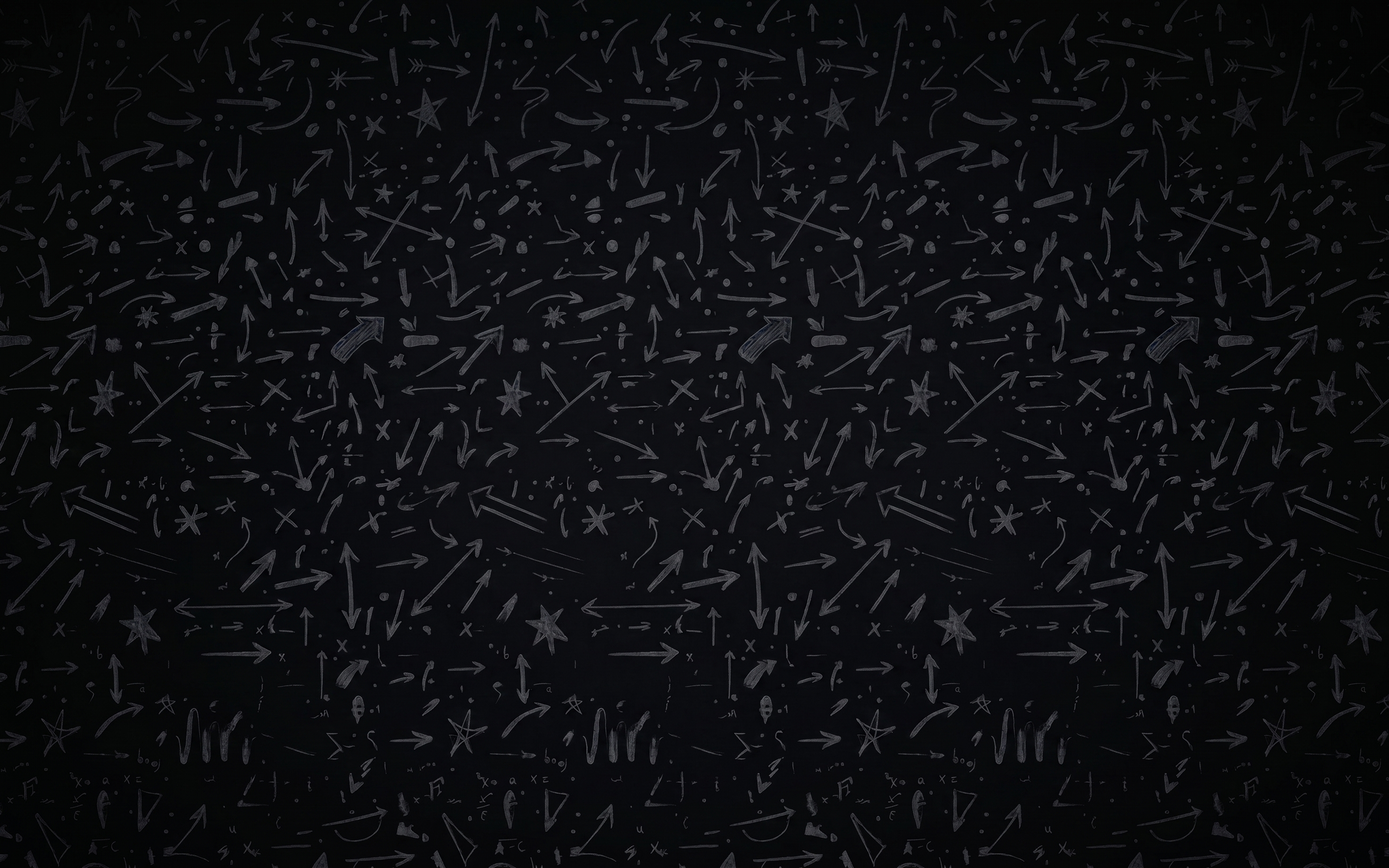
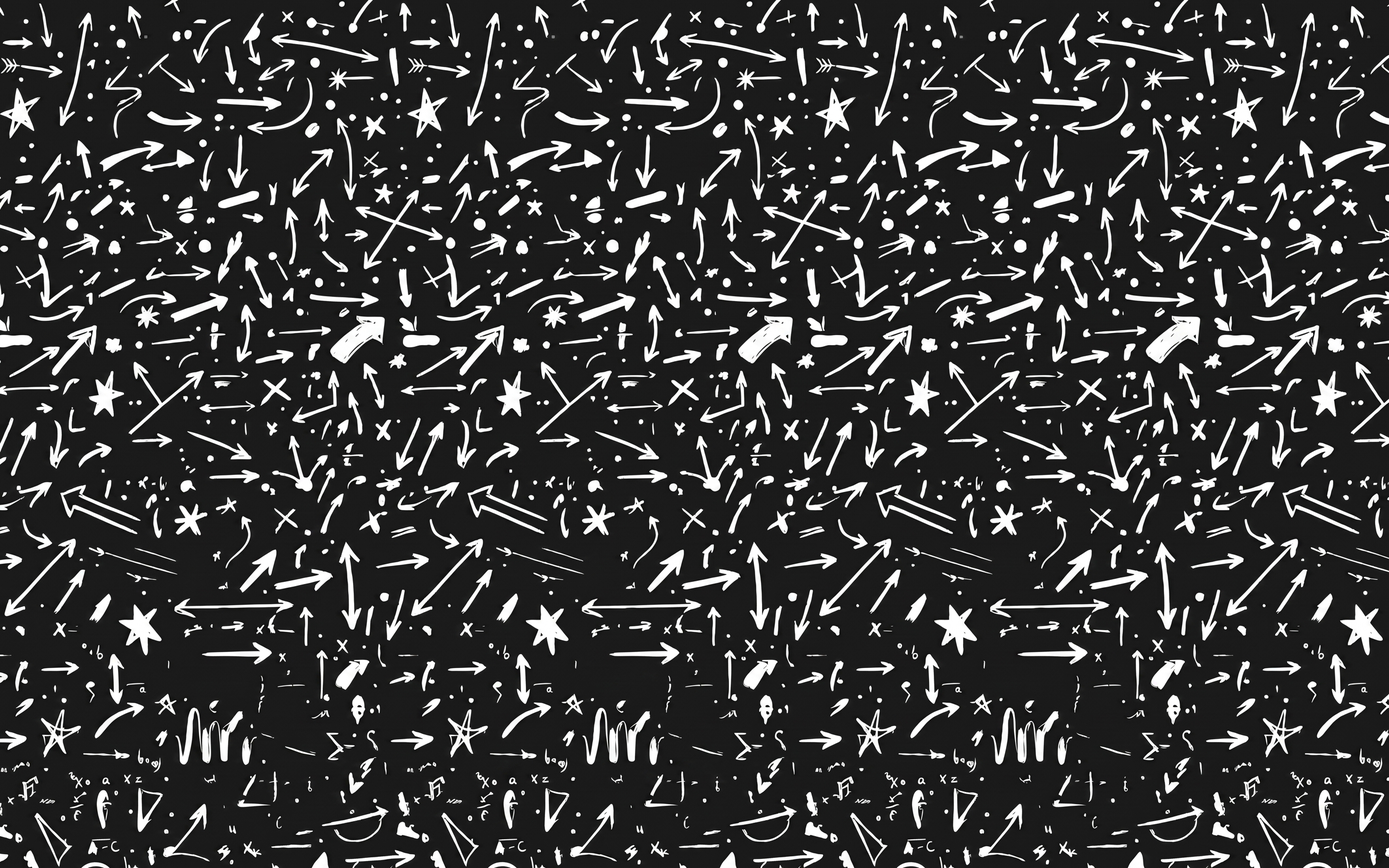
user section and fixed wallpapaers

diff --git a/frontend/src/components/ProfileDialog.tsx b/frontend/src/components/ProfileDialog.tsx
@@ -20,6 +20,7 @@ import {
 } from "@mui/material";
 import { API_BASE, apiFetch } from "../api";
 import { useAuth } from "../AuthContext";
+
 type Profile = {
   display_name: string;
   tag: string;
@@ -37,7 +38,7 @@ export default function ProfileDialog({
   onClose: () => void;
 }) {
   const { user, logout, refreshProfile } = useAuth();
-  const { mode, setMode, wallpaper, setWallpaper } = useAppTheme();
+  const { mode, setMode, wallpaper, setWallpaper, randomizeWallpaper } = useAppTheme();
   const [profile, setP] = useState<Profile>(EMPTY);
   const [file, setFile] = useState<File | null>(null);
   const [preview, setPreview] = useState<string | null>(null);
@@ -193,50 +194,60 @@ export default function ProfileDialog({
             </Button>
 
             <Divider />
-<Typography variant="subtitle2">Appearance</Typography>
+            <Typography variant="subtitle2">Appearance</Typography>
 
-<FormControlLabel
-  control={
-    <Switch
-      checked={mode === "dark"}
-      onChange={(e) => setMode(e.target.checked ? "dark" : "light")}
-    />
-  }
-  label="Dark mode"
-/>
+            <FormControlLabel
+              control={
+                <Switch
+                  checked={mode === "dark"}
+                  onChange={(e) => setMode(e.target.checked ? "dark" : "light")}
+                />
+              }
+              label="Dark mode"
+            />
 
-<Box>
-  <Typography variant="body2" color="text.secondary" sx={{ mb: 1 }}>
-    Chat wallpaper
-  </Typography>
-  <Stack direction="row" spacing={1}>
-    {(Object.keys(WALLPAPERS) as WallpaperKey[]).map((key) => {
-      const src = WALLPAPERS[key][mode];
-      return (
-        <Box
-          key={key}
-          onClick={() => setWallpaper(key)}
-          title={WALLPAPERS[key].label}
-          sx={{
-            width: 56,
-            height: 56,
-            borderRadius: 1,
-            cursor: "pointer",
-            bgcolor: "background.default",
-            border: wallpaper === key ? "2px solid" : "1px solid",
-            borderColor: wallpaper === key ? "primary.main" : "divider",
-            backgroundImage: src ? `url(${src})` : "none",
-            backgroundSize: "90px",
-          }}
-        />
-      );
-    })}
-  </Stack>
-</Box>
+            <Box>
+              <Typography variant="body2" color="text.secondary" sx={{ mb: 1 }}>
+                Chat wallpaper
+              </Typography>
+              <Stack direction="row" spacing={1}>
+                {(Object.keys(WALLPAPERS) as WallpaperKey[]).map((key) => {
+                  const src = WALLPAPERS[key][mode];
+                  return (
+                    <Box
+                      key={key}
+                      onClick={() => setWallpaper(key)}
+                      title={WALLPAPERS[key].label}
+                      sx={{
+                        width: 56,
+                        height: 56,
+                        borderRadius: 1,
+                        cursor: "pointer",
+                        bgcolor: "background.default",
+                        border: wallpaper === key ? "2px solid" : "1px solid",
+                        borderColor: wallpaper === key ? "primary.main" : "divider",
+                        backgroundImage: src ? `url(${src})` : "none",
+                        backgroundSize: "90px",
+                      }}
+                    />
+                  );
+                })}
+              </Stack>
 
-<Divider />
+              <Button
+                size="small"
+                variant="outlined"
+                onClick={randomizeWallpaper}
+                disabled={wallpaper === "none"}
+                sx={{ mt: 1.5 }}
+              >
+                Randomize
+              </Button>
+            </Box>
+
+            <Divider />
             <Button color="error" onClick={logout}>
-              Log out
+              Log out 🚪
             </Button>
           </Box>
         )}
@@ -244,4 +255,3 @@ export default function ProfileDialog({
     </Dialog>
   );
 }
-

diff --git a/frontend/src/components/OtherUserProfile.tsx b/frontend/src/components/OtherUserProfile.tsx
@@ -1,0 +1,124 @@
+import { useEffect, useState } from "react";
+import {
+  Alert,
+  Avatar,
+  Box,
+  Button,
+  CircularProgress,
+  Dialog,
+  DialogContent,
+  Divider,
+  Stack,
+  Typography,
+} from "@mui/material";
+import { API_BASE, apiFetch } from "../api";
+
+type OtherProfile = {
+  display_name: string;
+  tag: string;
+  bio: string;
+  avatar: string | null;
+};
+
+export default function OtherUserProfile({
+  userId,
+  onClose,
+  onMessage,
+}: {
+  userId: number | null;
+  onClose: () => void;
+  onMessage: (u: { user_id: number; tag: string; avatar: string | null }) => void;
+}) {
+  const [profile, setProfile] = useState<OtherProfile | null>(null);
+  const [loading, setLoading] = useState(false);
+  const [err, setErr] = useState<string | null>(null);
+
+  useEffect(() => {
+    if (!userId) return;
+    setProfile(null);
+    setErr(null);
+    setLoading(true);
+    apiFetch(`/api/users/${userId}/`)
+      .then((r) => {
+        if (!r.ok) throw new Error(`Could not load profile (${r.status})`);
+        return r.json();
+      })
+      .then((d) =>
+        setProfile({
+          display_name: d.display_name ?? "",
+          tag: d.tag ?? "",
+          bio: d.bio ?? "",
+          avatar: d.avatar ? (d.avatar.startsWith("http") ? d.avatar : API_BASE + d.avatar) : null,
+        })
+      )
+      .catch((e) => setErr(e.message))
+      .finally(() => setLoading(false));
+  }, [userId]);
+
+  return (
+    <Dialog
+      open={userId !== null}
+      onClose={onClose}
+      fullWidth
+      maxWidth="xs"
+      slotProps={{ paper: { sx: { borderRadius: 3, p: 1 } } }}
+    >
+      <DialogContent>
+        {loading && (
+          <Box sx={{ display: "flex", justifyContent: "center", py: 6 }}>
+            <CircularProgress />
+          </Box>
+        )}
+
+        {err && <Alert severity="error">{err}</Alert>}
+
+        {profile && (
+          <Box sx={{ display: "flex", flexDirection: "column", gap: 2 }}>
+            <Box sx={{ display: "flex", flexDirection: "column", alignItems: "center", gap: 1 }}>
+              <Avatar src={profile.avatar ?? undefined} sx={{ width: 88, height: 88, fontSize: 32 }}>
+                {(profile.display_name || profile.tag || "?")[0]?.toUpperCase()}
+              </Avatar>
+              <Typography variant="h6" sx={{ fontWeight: 600 }}>
+                {profile.display_name || profile.tag}
+              </Typography>
+              <Typography variant="body2" color="text.secondary">
+                @{profile.tag}
+              </Typography>
+            </Box>
+
+            {profile.bio && (
+              <>
+                <Divider />
+                <Box>
+                  <Typography variant="body2" color="text.secondary" sx={{ mb: 0.5 }}>
+                    Bio
+                  </Typography>
+                  <Typography variant="body2" sx={{ whiteSpace: "pre-wrap" }}>
+                    {profile.bio}
+                  </Typography>
+                </Box>
+              </>
+            )}
+
+            <Divider />
+
+            <Stack direction="row" spacing={1}>
+              <Button
+                variant="contained"
+                fullWidth
+                onClick={() =>
+                  onMessage({ user_id: userId!, tag: profile.tag, avatar: profile.avatar })
+                }
+              >
+                Message
+              </Button>
+              <Button variant="outlined" color="error" fullWidth disabled>
+                Block
+              </Button>
+            </Stack>
+          </Box>
+        )}
+      </DialogContent>
+    </Dialog>
+  );
+}

diff --git a/frontend/src/App.tsx b/frontend/src/App.tsx
@@ -14,10 +14,11 @@ import { useAuth } from './AuthContext';
 import LoginPage from './LoginPage';
 import { useAppTheme } from './Themes';
 import { WALLPAPERS } from './wallpapers';
+import OtherUserProfile from './components/OtherUserProfile';
 
 function ChatApp() {
   const { user, profile } = useAuth();
-  const { wallpaper, mode } = useAppTheme();
+  const { wallpaper, mode, wallpaperPos } = useAppTheme();
   const wp = WALLPAPERS[wallpaper][mode];
   const meId = user!.id;
   const [otherId, setOtherId] = React.useState<number | null>(
@@ -26,6 +27,7 @@ function ChatApp() {
   
   const [otherUser, setOtherUser] = React.useState<{ tag: string; avatar: string | null } | null>(null);
   const [profileOpen, setProfileOpen] = React.useState(false);
+  const [viewUserId, setViewUserId] = React.useState<number | null>(null);
   const [messages, setMessages] = React.useState<ChatMessage[]>([]);
   const [conversationId, setConversationId] = React.useState<number | null>(null);
   const { recentChats, addOrBump, remove, unreadCounts, markRead } = useRecentChats(meId, otherId);
@@ -141,8 +143,8 @@ function ChatApp() {
           </span>
         </div>
 
-        <SearchBar meId={meId} onSelect={(u) => openChat({ user_id: u.user_id, tag: u.tag, avatar: u.avatar })} />
-        <RecentChatsList chats={recentChats} activeId={otherId ?? -1} onSelect={openChat} onDelete={handleDelete} unreadCounts={unreadCounts} />
+        <SearchBar meId={meId} onSelect={(u) => setViewUserId(u.user_id)} />
+        <RecentChatsList chats={recentChats} activeId={otherId ?? -1} onSelect={openChat} onDelete={handleDelete} onAvatarClick={(c) => setViewUserId(c.user_id)} unreadCounts={unreadCounts} />
       </div>
 
       <div style={{ flex: 1, display: 'flex', alignItems: 'stretch', padding: 24 }}>
@@ -160,9 +162,11 @@ function ChatApp() {
               inset: 0,
               backgroundImage: `url(${wp})`,
               backgroundRepeat: 'repeat',
-              backgroundSize: '500px',
-              opacity: mode === 'dark' ? 0.5 : 0.2,
+              backgroundSize: '2500px',
+              backgroundPosition: wallpaperPos,
+              opacity: mode === 'dark' ? 0.1 : 0.2,
               pointerEvents: 'none',
+              transition: 'background-position 0.35s ease',
             }} />
           )}
 
@@ -199,6 +203,14 @@ function ChatApp() {
         </div>
       </div>
       <ProfileDialog open={profileOpen} onClose={() => setProfileOpen(false)} />
+      <OtherUserProfile
+        userId={viewUserId}
+        onClose={() => setViewUserId(null)}
+        onMessage={(u) => {
+          openChat(u);
+          setViewUserId(null);
+        }}
+      />
     </div>
   );
 }

diff --git a/frontend/src/Themes.tsx b/frontend/src/Themes.tsx
@@ -10,6 +10,8 @@ const Ctx = createContext<{
   setMode: (m: Mode) => void;
   wallpaper: WallpaperKey;
   setWallpaper: (w: WallpaperKey) => void;
+  wallpaperPos: string;
+  randomizeWallpaper: () => void;
 }>(null!);
 
 export const useAppTheme = () => useContext(Ctx);
@@ -21,9 +23,18 @@ export function AppThemeProvider({ children }: { children: ReactNode }) {
   const [wallpaper, setWallpaperState] = useState<WallpaperKey>(
     () => (localStorage.getItem('wallpaper') as WallpaperKey) || 'none'
   );
+  const [wallpaperPos, setWallpaperPos] = useState<string>(
+    () => localStorage.getItem('wallpaperPos') || '0px 0px'
+  );
 
   const setMode = (m: Mode) => { localStorage.setItem('mode', m); setModeState(m); };
   const setWallpaper = (w: WallpaperKey) => { localStorage.setItem('wallpaper', w); setWallpaperState(w); };
+
+  const randomizeWallpaper = () => {
+    const p = `${Math.floor(Math.random() * 600)}px ${Math.floor(Math.random() * 600)}px`;
+    localStorage.setItem('wallpaperPos', p);
+    setWallpaperPos(p);
+  };
 
   const theme = useMemo(() => createTheme({
     palette: {
@@ -51,7 +62,7 @@ export function AppThemeProvider({ children }: { children: ReactNode }) {
   }), [mode]);
 
   return (
-    <Ctx.Provider value={{ mode, setMode, wallpaper, setWallpaper }}>
+    <Ctx.Provider value={{ mode, setMode, wallpaper, setWallpaper, wallpaperPos, randomizeWallpaper }}>
       <ThemeProvider theme={theme}>{children}</ThemeProvider>
     </Ctx.Provider>
   );

diff --git a/frontend/src/components/RecentChatsList.tsx b/frontend/src/components/RecentChatsList.tsx
@@ -5,10 +5,11 @@ type Props = {
   activeId: number;
   onSelect: (c: RecentContact) => void;
   onDelete: (c: RecentContact) => void;
+  onAvatarClick: (c: RecentContact) => void;
   unreadCounts: Record<number, number>;
 };
 
-export function RecentChatsList({ chats, activeId, onSelect, onDelete, unreadCounts }: Props) {
+export function RecentChatsList({ chats, activeId, onSelect, onDelete, onAvatarClick, unreadCounts }: Props) {
   if (chats.length === 0) {
     return (
       <div style={{ color: '#8a7854', fontSize: 13, padding: '8px 4px' }}>
@@ -40,6 +41,11 @@ export function RecentChatsList({ chats, activeId, onSelect, onDelete, unreadCou
           }}
         >
           <div
+            onClick={(e) => {
+              e.stopPropagation();
+              onAvatarClick(c);
+            }}
+            title="View profile"
             style={{
               width: 32,
               height: 32,
@@ -53,6 +59,7 @@ export function RecentChatsList({ chats, activeId, onSelect, onDelete, unreadCou
               fontWeight: 600,
               flexShrink: 0,
               overflow: 'hidden',
+              cursor: 'pointer',
             }}
           >
             {c.avatar ? (
